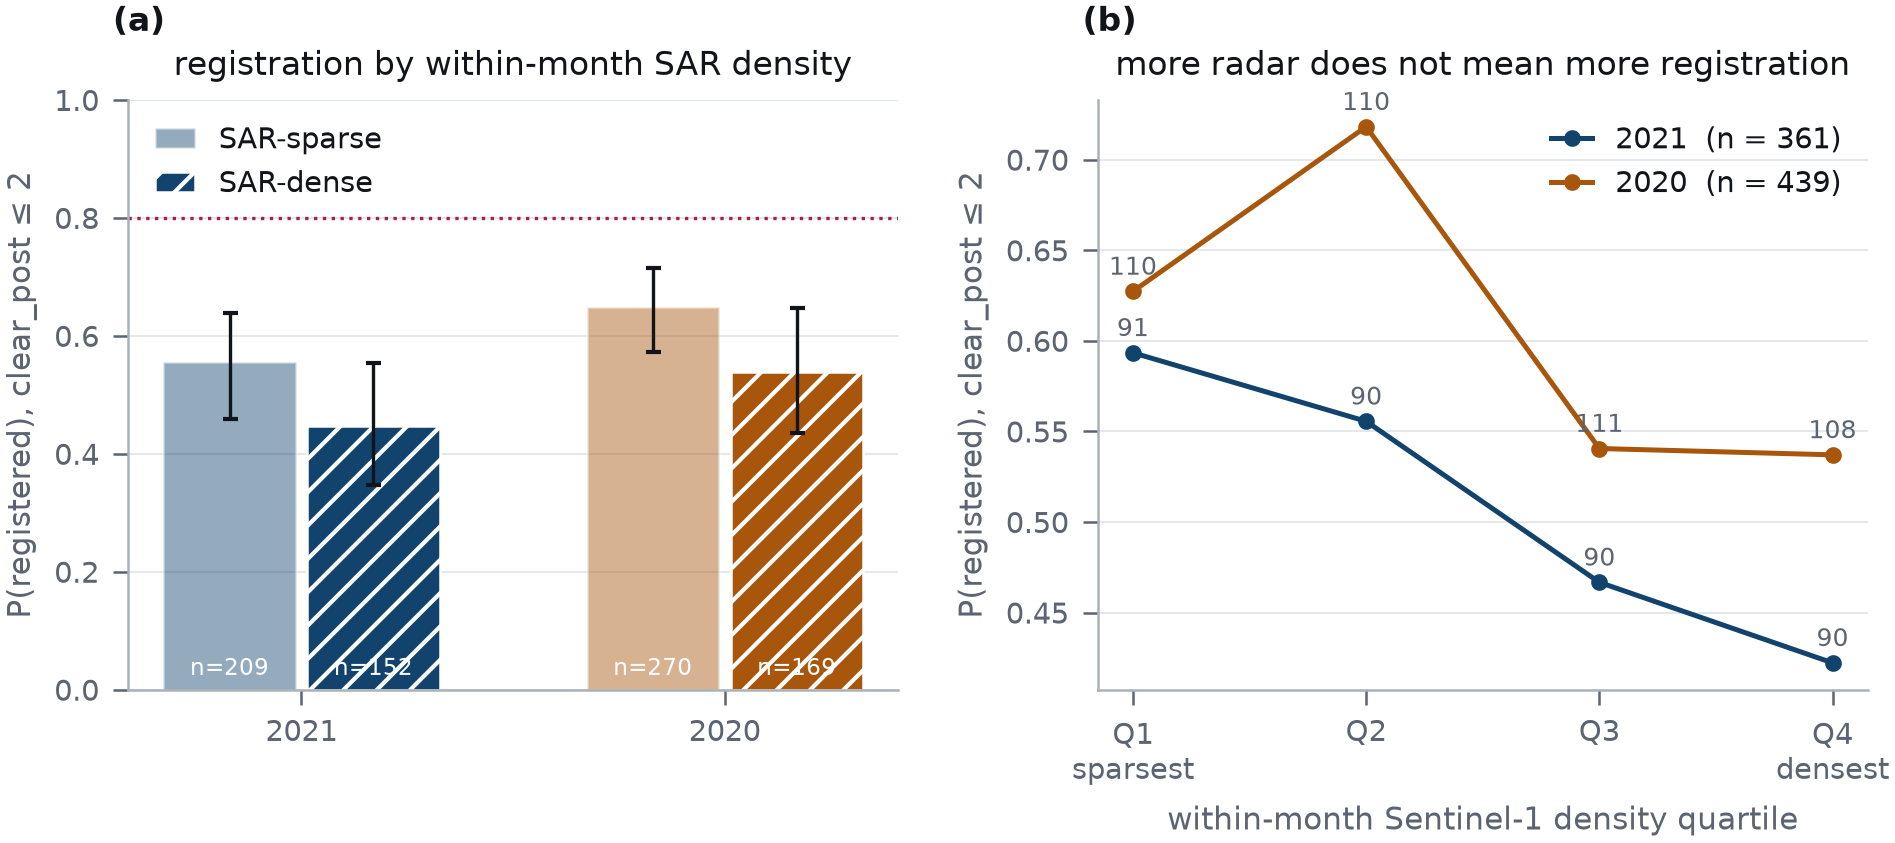
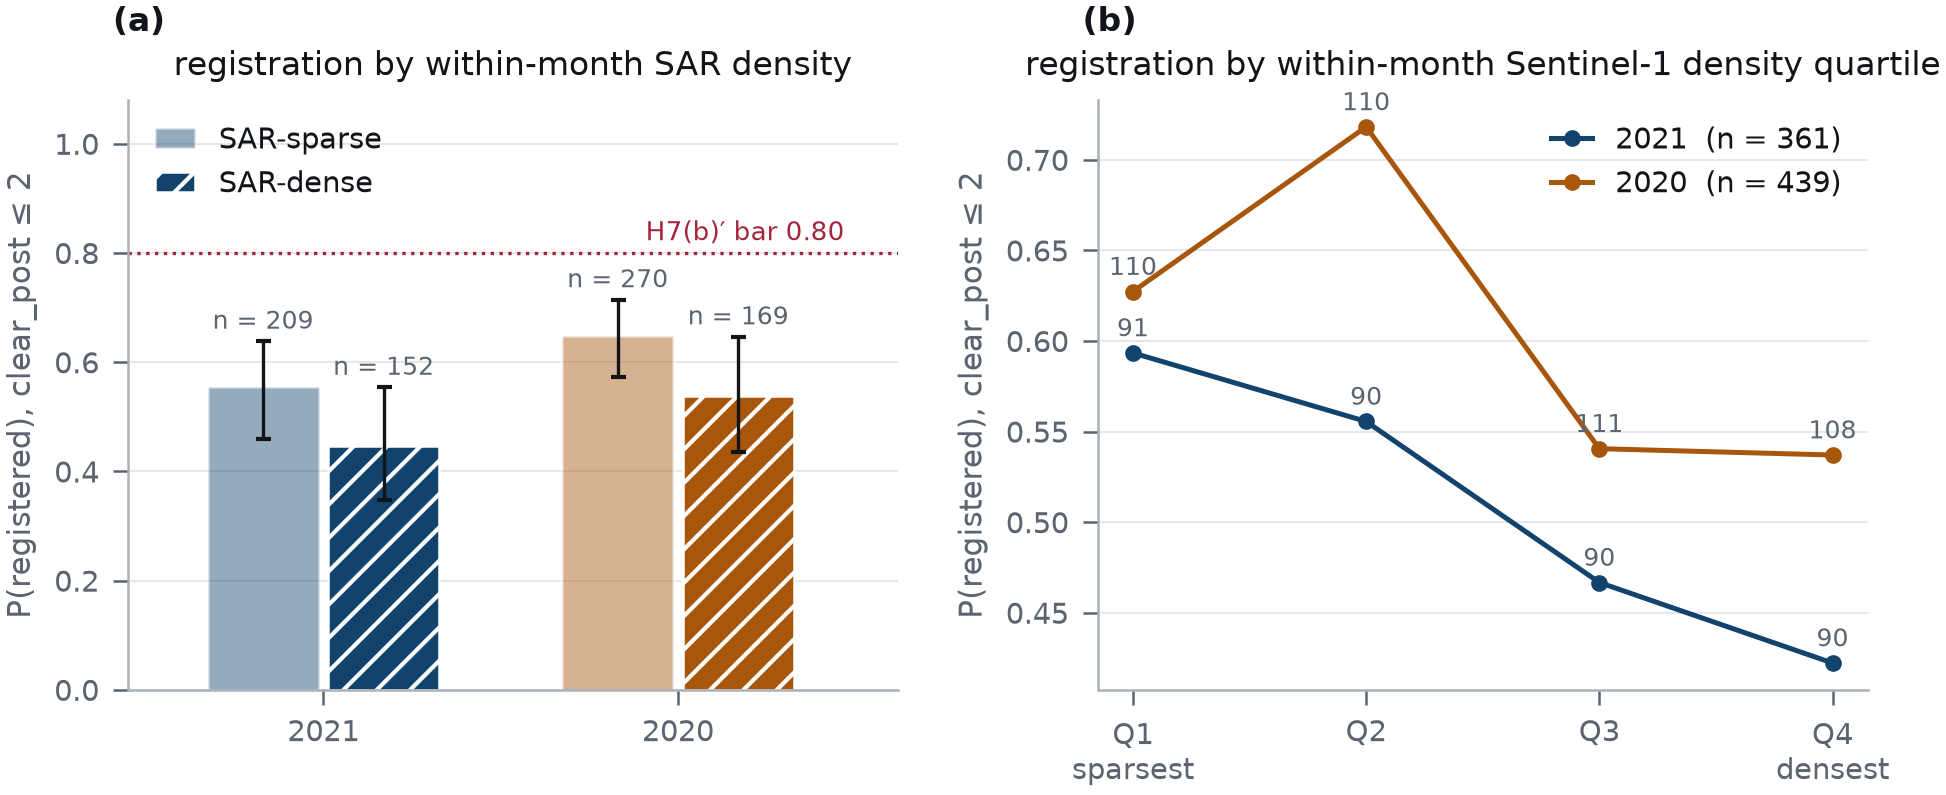
TB01-P8 item 2: F3 neutral panel-(b) title, n labels above the bars, text follows
Panel (b) is retitled 'registration by within-month Sentinel-1 density quartile' - the
reading belongs in the text, not the panel - and its redundant axis label is dropped. In
panel (a) the sample sizes move from inside the bars to above the error bars, and the
H7(b)' reference label is now visible rather than hidden behind the legend.

Section 4.2 no longer says 'the relationship is negative in both years', which the 2020
series contradicts: it now states that 2021 declines monotonically while 2020 peaks in the
second quartile at 0.718, and that what both share is the densest quartile registering
lowest of the four, 0.422 and 0.537.

diff --git a/aef_explore/paper/code/fig_results.py b/aef_explore/paper/code/fig_results.py
@@ -95,12 +95,15 @@ def f2():
             ax.errorbar(k + (j - 0.5) * w, v["point"],
                         yerr=[[v["point"] - v["lo"]], [v["hi"] - v["point"]]],
                         color=INK, lw=0.8, capsize=1.8)
-            ax.annotate(f"n={h['n_lo' if j == 0 else 'n_hi']}",
-                        (k + (j - 0.5) * w, 0.025), ha="center", fontsize=5.6, color="white")
+            ax.annotate(f"n = {h['n_lo' if j == 0 else 'n_hi']}",
+                        (k + (j - 0.5) * w, v["hi"]), textcoords="offset points",
+                        xytext=(0, 3), ha="center", fontsize=6, color=INK2)
     ax.axhline(0.80, color=C["flag"], lw=0.8, ls=":")
-    ax.annotate("H7(b)′ bar 0.80", (-0.45, 0.812), ha="left", fontsize=6.2, color=C["flag"])
+    ax.annotate("H7(b)′ bar 0.80", (1.47, 0.812), ha="right", va="bottom", fontsize=6.2,
+                color=C["flag"])
     ax.set_xticks(xs); ax.set_xticklabels(["2021", "2020"])
-    ax.set_ylim(0, 1.0)
+    ax.set_xlim(-0.55, 1.62)
+    ax.set_ylim(0, 1.08)
     ax.set_ylabel("P(registered), clear_post ≤ 2")
     ax.set_title("registration by within-month SAR density", color=INK, pad=6)
     ax.legend(frameon=False, loc="upper left", handlelength=1.4)
@@ -116,9 +119,9 @@ def f2():
                             xytext=(0, 4), ha="center", fontsize=6, color=INK2)
     ax.set_xticks([1, 2, 3, 4])
     ax.set_xticklabels(["Q1\nsparsest", "Q2", "Q3", "Q4\ndensest"])
-    ax.set_xlabel("within-month Sentinel-1 density quartile")
     ax.set_ylabel("P(registered), clear_post ≤ 2")
-    ax.set_title("more radar does not mean more registration", color=INK, pad=6)
+    ax.set_title("registration by within-month Sentinel-1 density quartile",
+                 color=INK, pad=6)
     ax.legend(frameon=False, loc="upper right", handlelength=1.4)
     tidy(ax)
     panel_tag(axes[0], "(a)", dy=1.16); panel_tag(axes[1], "(b)", dy=1.16)

diff --git a/aef_explore/paper/MANUSCRIPT.md b/aef_explore/paper/MANUSCRIPT.md
@@ -441,8 +441,12 @@ register *less* often, not more.
 
 The monotone version of the same statement is Fig. 3b. Sorting low-observation events into
 quartiles of within-month radar density, registration in 2021 runs 0.593, 0.556, 0.467, 0.422
-from sparsest to densest, and in 2020 0.627, 0.718, 0.541, 0.537. The relationship is negative
-in both years. The explanation is not that radar destroys information. Sentinel-1 acquisition follows a
+from sparsest to densest, and in 2020 0.627, 0.718, 0.541, 0.537. The 2021 series declines
+monotonically; the 2020 series peaks in the second quartile at 0.718 before falling, so the
+relationship is not monotone in both years. What is common to both is the end point that
+matters for the argument: the densest radar quartile registers lowest of the four, at 0.422 in
+2021 and 0.537 in 2020, and in neither year does it approach the rate of the well-observed
+population. The explanation is not that radar destroys information. Sentinel-1 acquisition follows a
 fixed observation plan, so within-month radar density is set almost entirely by where a pixel
 sits relative to the overlap of adjacent orbit swaths, and is close to independent of the
 weather that governs optical supply. Conditioning on it therefore does not select

diff --git a/aef_explore/paper/MANUSCRIPT_RSE.md b/aef_explore/paper/MANUSCRIPT_RSE.md
@@ -433,8 +433,12 @@ register *less* often, not more.
 
 The monotone version of the same statement is Fig. 3b. Sorting low-observation events into
 quartiles of within-month radar density, registration in 2021 runs 0.593, 0.556, 0.467, 0.422
-from sparsest to densest, and in 2020 0.627, 0.718, 0.541, 0.537. The relationship is negative
-in both years. The explanation is not that radar destroys information. Sentinel-1 acquisition follows a
+from sparsest to densest, and in 2020 0.627, 0.718, 0.541, 0.537. The 2021 series declines
+monotonically; the 2020 series peaks in the second quartile at 0.718 before falling, so the
+relationship is not monotone in both years. What is common to both is the end point that
+matters for the argument: the densest radar quartile registers lowest of the four, at 0.422 in
+2021 and 0.537 in 2020, and in neither year does it approach the rate of the well-observed
+population. The explanation is not that radar destroys information. Sentinel-1 acquisition follows a
 fixed observation plan, so within-month radar density is set almost entirely by where a pixel
 sits relative to the overlap of adjacent orbit swaths, and is close to independent of the
 weather that governs optical supply. Conditioning on it therefore does not select
